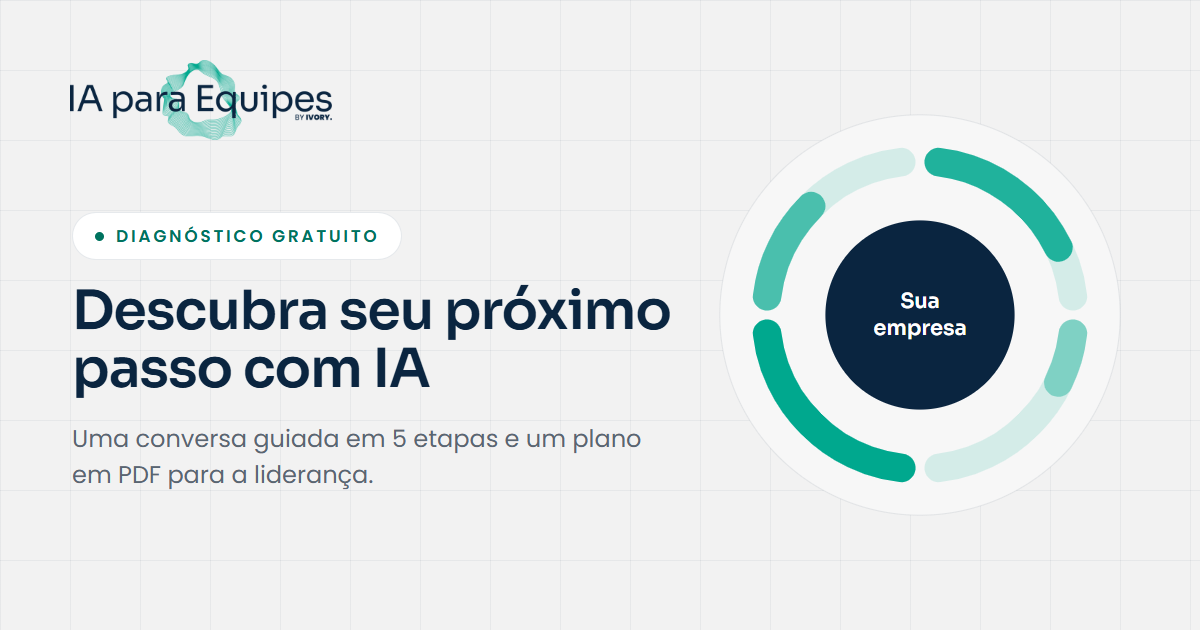
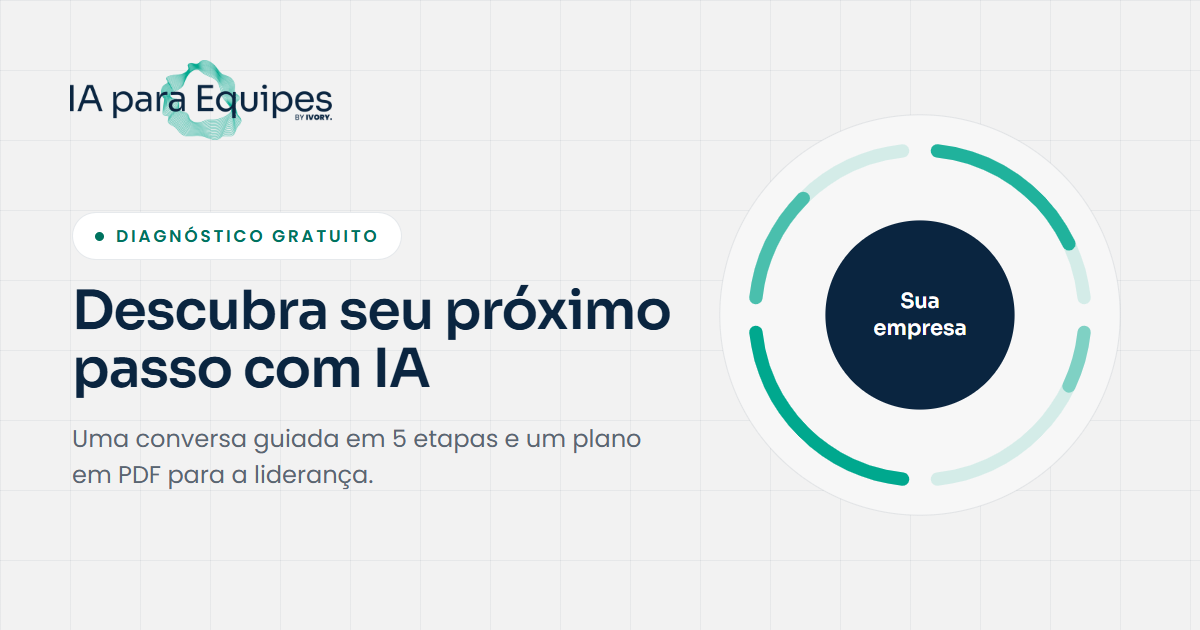
Diagnóstico IA: anel de traço fino e destaque da home revisado
- Anel "Sua jornada" com traço 12 (antes 30), raio 150 e vãos visíveis entre
  os arcos, sem fios-guia; mesma proporção na home, no PDF e na imagem og
- "Não identificado" em tracejado de ponta reta; trilha cinza mais visível
- Destaque da home sem "em PDF" e "em vídeo", com o novo ponto do plano
- Rótulos do anel da home no eixo de cada arco, fora do círculo de fundo

Changed region(s): [[0.6167, 0.2111, 0.925, 0.7841]]

diff --git a/src/components/radar/RadarVivo.tsx b/src/components/radar/RadarVivo.tsx
@@ -2,9 +2,10 @@
  * Radar Vivo: o mapa que cresce com a conversa (§10.1 do documento, redesenhado
  * a partir da referência do Thiago depois da v1.6). Modelo híbrido:
  *
- * - em cima, um círculo segmentado com quatro arcos nomeados (Pessoas,
- *   Processos, Segurança, Disseminação). Cada arco ganha cor e estágio quando a
- *   pergunta da dimensão é respondida;
+ * - em cima, um círculo segmentado de traço fino com quatro arcos nomeados
+ *   (Pessoas, Processos, Segurança, Disseminação). Cada arco ganha cor e estágio
+ *   quando a pergunta da dimensão é respondida. Os rótulos ficam nos cantos, sem
+ *   fio-guia;
  * - embaixo, um bloco de texto curto que cresce etapa a etapa: desafios,
  *   leitura atual, interesses, objetivo, caminho e próximo foco.
  *
@@ -24,8 +25,11 @@ import { CHALLENGE_SHORT, CAPABILITY_SHORT, NEXT_FOCUS } from '../../data/radar/
 import { mirrorResult, isMirrorComplete, isPathComplete, type RadarState } from '../../scripts/radar/engine.ts';
 
 const C = 200;
-const R = 128;
-const SPAN = 38; // meia abertura de cada arco, em graus
+// Traço fino (12 em 400) e vãos visíveis entre os arcos (17/11/2026, pedido do
+// Thiago: com traço 30 o anel ficava grosseiro e os arcos quase se encostavam).
+const R = 150;
+const STROKE = 12;
+const SPAN = 39; // meia abertura de cada arco, em graus
 const rad = (deg: number) => (deg * Math.PI) / 180;
 // Arredondado: servidor e navegador calculam o último dígito de forma diferente,
 // e o React acusaria divergência na hidratação.
@@ -110,7 +114,7 @@ export default function RadarVivo({ state, variant = 'full', highlight = null, h
   const changed = useChanged(state, variant === 'full');
 
   const ring = (
-    <svg viewBox={variant === 'mini' ? '50 50 300 300' : '0 0 400 400'} className="h-full w-full" role="img" aria-labelledby={titleId}>
+    <svg viewBox={variant === 'mini' ? '36 36 328 328' : '0 0 400 400'} className="h-full w-full" role="img" aria-labelledby={titleId}>
       <title id={titleId}>Sua jornada: quatro temas do retrato da sua organização. O texto ao lado descreve cada um.</title>
       {QUESTIONS.map((q) => {
         const { angle } = DIM[q.id];
@@ -120,22 +124,17 @@ export default function RadarVivo({ state, variant = 'full', highlight = null, h
         return (
           <g key={q.id}>
             {/* Trilha: cinza antes da resposta, turquesa claro depois. */}
-            <path d={d} fill="none" stroke={st ? '#00a88e' : '#0a2540'} strokeOpacity={st ? 0.14 : 0.07} strokeWidth={30} strokeLinecap="round"
-              strokeDasharray={st === 'Não identificado' ? '4 9' : undefined} className="motion-safe:transition-all motion-safe:duration-700" />
+            {/* "Não sei": tracejado de ponta reta (com ponta redonda os traços se fundem). */}
+            <path d={d} fill="none" stroke={st ? '#00a88e' : '#0a2540'} strokeOpacity={st ? 0.14 : 0.1} strokeWidth={STROKE}
+              strokeLinecap={st === 'Não identificado' ? 'butt' : 'round'}
+              strokeDasharray={st === 'Não identificado' ? '5 7' : undefined} className="motion-safe:transition-all motion-safe:duration-700" />
             {stage && (
-              <path d={d} pathLength={100} fill="none" stroke="#00a88e" strokeOpacity={stage.opacity} strokeWidth={30} strokeLinecap="round"
+              <path d={d} pathLength={100} fill="none" stroke="#00a88e" strokeOpacity={stage.opacity} strokeWidth={STROKE} strokeLinecap="round"
                 strokeDasharray={`${stage.fill} 100`} className="motion-safe:transition-[stroke-dasharray] motion-safe:duration-700" />
             )}
             {stage && variant !== 'mini' && (
-              <circle key={`h-${st}`} cx={at(R, angle).x} cy={at(R, angle).y} r={24} fill="none" stroke="#00a88e" strokeWidth={2} className={halo} />
+              <circle key={`h-${st}`} cx={at(R, angle).x} cy={at(R, angle).y} r={14} fill="none" stroke="#00a88e" strokeWidth={1.5} className={halo} />
             )}
-            {variant !== 'mini' && (() => {
-              // Fio-guia do arco até o canto do rótulo.
-              const a = at(R + 18, angle);
-              const b = at(R + 52, angle);
-              const right = b.x > C;
-              return <path d={`M ${a.x} ${a.y} L ${b.x} ${b.y} L ${b.x + (right ? 22 : -22)} ${b.y}`} fill="none" stroke="#0a2540" strokeOpacity={st ? 0.35 : 0.15} strokeWidth={1.5} />;
-            })()}
           </g>
         );
       })}

diff --git a/src/components/radar/pdf/PlanDocument.tsx b/src/components/radar/pdf/PlanDocument.tsx
@@ -78,8 +78,9 @@ const SHORT_DIM: Record<DimensionId, string> = { pessoas: 'Pessoas', processos: 
 
 function Ring({ dims, size, center }: { dims: { id: DimensionId; state: QualState }[]; size: number; center: readonly string[] }) {
   const C = 100;
-  const R = 70;
-  const SPAN = 38;
+  // Traço fino, como o anel do chat (17/11/2026).
+  const R = 75;
+  const SPAN = 39;
   const at = (deg: number) => ({ x: C + R * Math.cos((deg * Math.PI) / 180), y: C + R * Math.sin((deg * Math.PI) / 180) });
   const arc = (from: number, to: number) => { const a = at(from); const b = at(to); return `M ${a.x} ${a.y} A ${R} ${R} 0 0 1 ${b.x} ${b.y}`; };
   return (
@@ -90,13 +91,14 @@ function Ring({ dims, size, center }: { dims: { id: DimensionId; state: QualStat
           const st = STAGE[d.state];
           return (
             <G key={d.id}>
-              <Path d={arc(a - SPAN, a + SPAN)} stroke={ACCENT} strokeOpacity={0.14} strokeWidth={17} fill="none" strokeLinecap="round"
-                strokeDasharray={d.state === 'Não identificado' ? '3 6' : undefined} />
-              {st && <Path d={arc(a - SPAN, a - SPAN + 2 * SPAN * st.fill)} stroke={ACCENT} strokeOpacity={st.opacity} strokeWidth={17} fill="none" strokeLinecap="round" />}
+              <Path d={arc(a - SPAN, a + SPAN)} stroke={ACCENT} strokeOpacity={0.14} strokeWidth={6} fill="none"
+                strokeLinecap={d.state === 'Não identificado' ? 'butt' : 'round'}
+                strokeDasharray={d.state === 'Não identificado' ? '2.5 3.5' : undefined} />
+              {st && <Path d={arc(a - SPAN, a - SPAN + 2 * SPAN * st.fill)} stroke={ACCENT} strokeOpacity={st.opacity} strokeWidth={6} fill="none" strokeLinecap="round" />}
             </G>
           );
         })}
-        <Circle cx={C} cy={C} r={46} fill={NAVY} />
+        <Circle cx={C} cy={C} r={42} fill={NAVY} />
       </Svg>
       <View style={{ position: 'absolute', top: 0, left: 0, width: size, height: size, alignItems: 'center', justifyContent: 'center' }}>
         {center.map((t) => (

diff --git a/AGENTS.md b/AGENTS.md
@@ -434,6 +434,14 @@ Jornada em `/diagnostico-ia`. O documento de referência é o "Radar IA — Jorn
     - os três pontos do que a pessoa leva hoje (retrato, vídeo, plano em PDF), sem tempo
       estimado;
     - o anel do painel "Sua jornada" como desenho, no lugar dos pontos e losangos antigos.
+    - **Sem "em PDF" e sem "em vídeo" (17/11/2026, pedido do Thiago, só na home):** o apoio diz
+      "você recebe um plano", e os pontos são "O que a IA já pode fazer no trabalho" e "Um plano
+      dos próximos passos para evoluir com a Inteligência Artificial e apresentar à liderança". A
+      página do vídeo, a descrição do `/diagnostico-ia`, o chat e a imagem og continuam citando o
+      PDF.
+    - **Rótulos do anel no eixo de cada arco,** fora do círculo de fundo (`LABEL_R` 196, com a
+      âncora voltada para o anel). Nos cantos fixos, caíam em cima da borda do círculo. O viewBox
+      é `-64 0 528 400`, para "Disseminação" caber, e a fonte é 17.
   - **"Radar IA" ficou só no código** (`src/components/radar`, `RadarApp`…) e na origem do lead,
     `origem: 'Radar IA'`, para o CRM não mudar.
   - **A imagem de compartilhamento** é `public/og/diagnostico-ia.png` (1200×630), gerada de um
@@ -802,6 +810,18 @@ Histórico, para ninguém voltar atrás sem querer:
     O arco fica cinza até a pergunta da dimensão ser respondida e então ganha cor e estágio.
     O nome e o estágio ficam em cima e embaixo do anel, em linhas: sobrepostos ao anel, quebravam
     em 280 px;
+  - **traço fino (desde 17/11/2026, pedido do Thiago: "muito grosseiro").** Num viewBox de 400,
+    o raio é 150, o traço 12 e a meia abertura 39°. Antes eram raio 128 e traço 30.
+    - Com a ponta redonda menor, sobra um vão visível de uns 10° entre os arcos. Antes, os arcos
+      quase se encostavam.
+    - Os fios-guia até os rótulos saíram: pareciam sobra, e os rótulos já ficam nos cantos.
+    - O "Não identificado" é tracejado com ponta reta (`5 7`). Com ponta redonda e traço 12, os
+      traços se fundiriam numa linha cheia.
+    - A trilha cinza de antes da resposta tem opacidade 0,1: com 0,07 e traço fino, sumia.
+    - O mini do celular usa o viewBox `36 36 328 328`, para o anel maior não ser cortado.
+
+    A mesma proporção vale no destaque da home (`RadarCta.astro`), no `Ring` do PDF (viewBox
+    200: raio 75, traço 6, disco 42) e na `og/diagnostico-ia.png`. Mudou um, mude os outros;
   - **embaixo, um bloco de texto que cresce por etapa:**
     1. Desafios identificados (chips; o da dica ganha anel turquesa);
     2. Leitura atual e Principal descoberta (`scenario.insight`);
